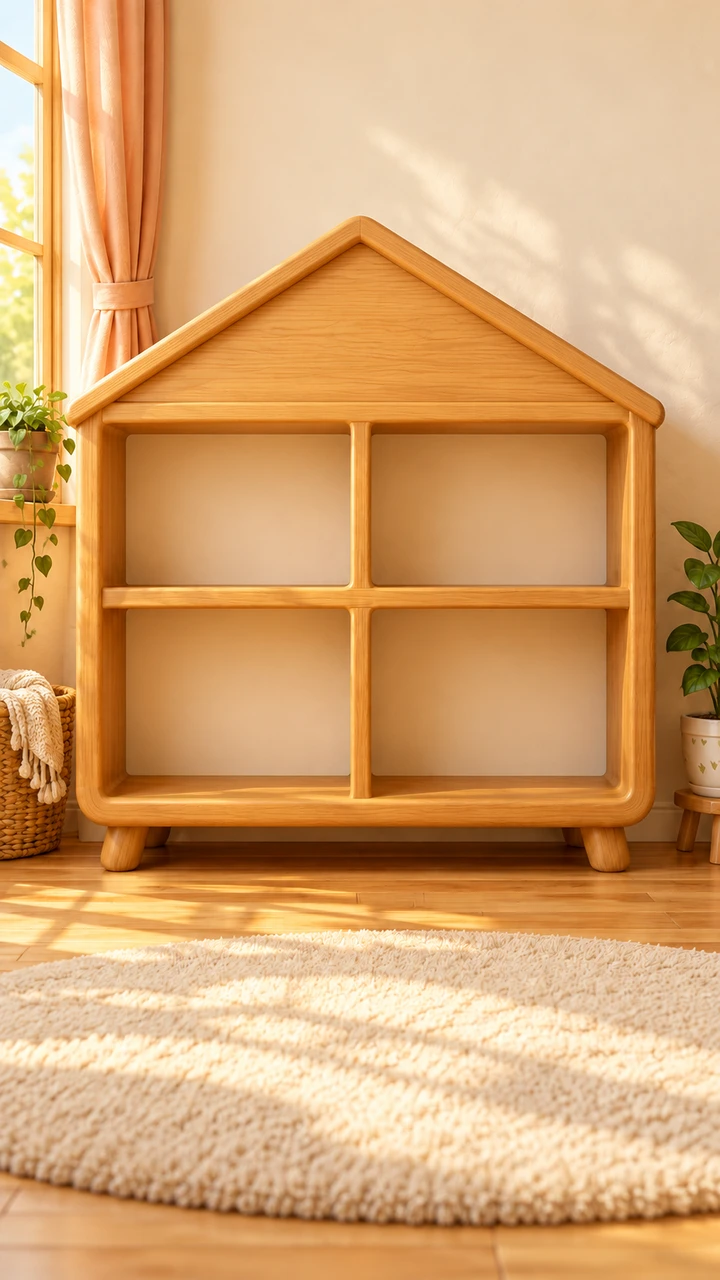
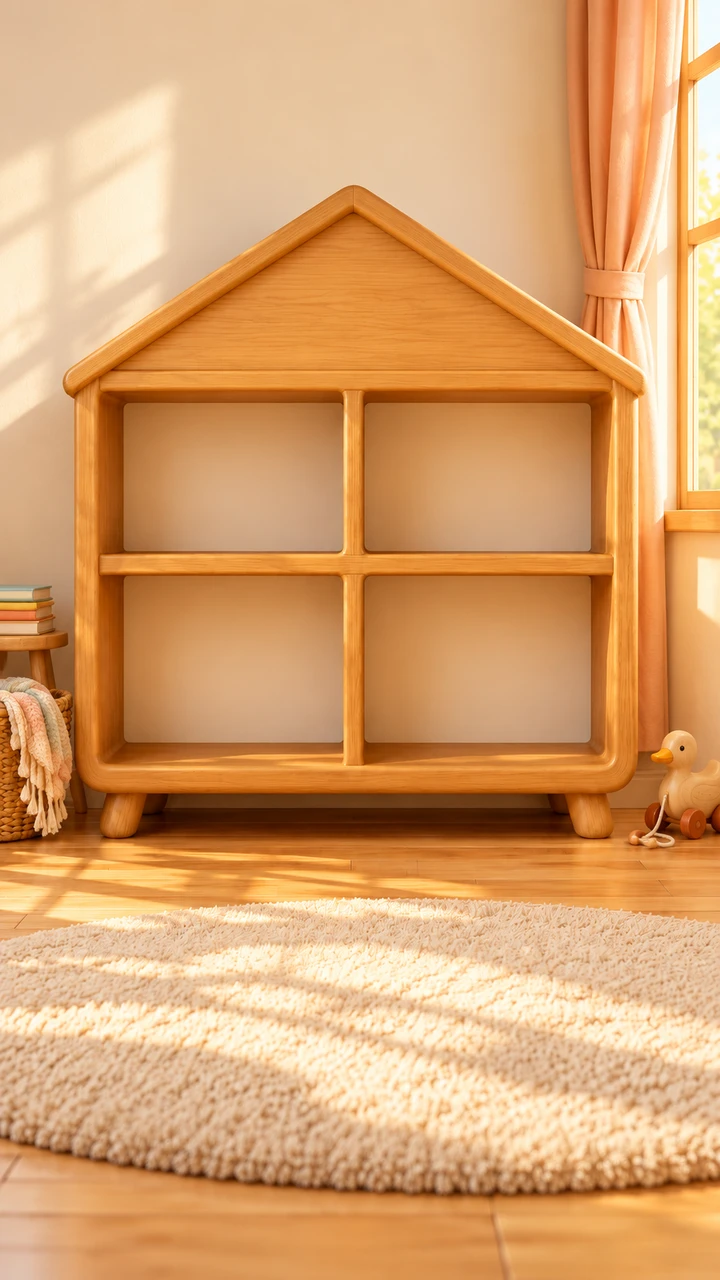
Refine Home room and add parent Memory level selection

diff --git a/scenes/SelectScene.js b/scenes/SelectScene.js
@@ -27,37 +27,39 @@ class SelectScene extends Phaser.Scene {
             this.scene.start(destination, { characterId: this.characterId, mode, fromSelect: destination === 'PlayScene' });
         };
         // Positions follow the photographed shelf, expressed as canvas fractions.
-        this.carePicture = this.add.image(W * 0.5, H * 0.253, `${this.characterId}_neutral`);
+        this.carePicture = this.add.image(W * 0.5, H * 0.235, `${this.characterId}_neutral`);
         this.resizeCarePicture();
-        this.add.text(W * 0.5, H * 0.304, 'Care Game', {
+        this.add.text(W * 0.5, H * 0.285, 'Care Game', {
             fontFamily: 'Quicksand, Arial', fontSize: `${W * 0.052}px`, color: '#59402A',
             stroke: '#F9E5C6', strokeThickness: 3,
         }).setOrigin(0.5);
-        this.add.zone(W * 0.5, H * 0.267, W * 0.43, H * 0.108)
+        this.add.zone(W * 0.5, H * 0.248, W * 0.43, H * 0.108)
             .setInteractive({ useHandCursor: true }).on('pointerdown', () => launch('PlayScene'));
         this.gameTiles = [];
         ALL_GAMES.forEach((game, i) => {
-            const left = W * (i % 2 ? 0.52 : 0.175);
-            const top = H * (i < 2 ? 0.34 : 0.48);
-            const cellW = W * 0.315, cellH = H * (i < 2 ? 0.115 : 0.13);
-            const x = left + cellW / 2, y = top + cellH * 0.40;
-            const size = Math.min(cellW * 0.64, cellH * 0.58);
-            const tile = this.add.image(x, y, game.image).setDepth(1);
-            tile.setScale(size / Math.max(tile.width, tile.height));
+            const left = W * (i % 2 ? 0.51 : 0.17);
+            const top = H * (i < 2 ? 0.313 : 0.459);
+            const cellW = W * 0.31, cellH = H * (i < 2 ? 0.146 : 0.168);
+            const x = left + cellW / 2, y = H * (i < 2 ? 0.373 : 0.522);
+            // Trim transparent margins for Home only, so the actual toy fills its cubby.
+            const content = {
+                memory: [28, 58, 248, 188], catch: [3, 3, 232, 232],
+                tidy: [5, 43, 222, 167], car: [6, 31, 227, 168],
+            }[game.id];
+            const texture = this.textures.get(game.image);
+            if (!texture.has('home_content')) texture.add('home_content', 0, ...content);
+            const tile = this.add.image(x, y, game.image, 'home_content').setDepth(1);
+            tile.setScale(Math.min(cellW * 0.91 / tile.width, H * (i < 2 ? 0.112 : 0.12) / tile.height));
             const base = tile.scaleX;
             this.tweens.add({ targets: tile, scale: base * 1.03, duration: 1500, yoyo: true, repeat: -1 });
-            const label = this.add.text(x, top + cellH * 0.86, game.name, {
-                fontFamily: 'Quicksand, Arial', fontSize: `${W * 0.042}px`, color: '#64513D',
+            const label = this.add.text(x, H * (i < 2 ? 0.445 : 0.604), game.name, {
+                fontFamily: 'Quicksand, Arial', fontSize: `${W * 0.036}px`, color: '#64513D',
             }).setOrigin(0.5).setDepth(1);
             const hit = this.add.zone(x, top + cellH / 2, cellW, cellH).setDepth(2).setInteractive({ useHandCursor: true });
             hit.on('pointerdown', () => launch(game.scene, 'full'));
             this.gameTiles.push({ id: game.id, tile, label, hit });
         });
-        this.add.text(W / 2, H * 0.757, 'Choose a friend', {
-            fontFamily: 'Quicksand, Arial', fontSize: `${W * 0.043}px`, color: '#64513D',
-            stroke: '#FFF4DE', strokeThickness: 4,
-        }).setOrigin(0.5);
-        this.plushieLabel = this.add.text(W / 2, H * 0.96, '', {
+        this.plushieLabel = this.add.text(W / 2, H * 0.976, '', {
             fontFamily: 'Quicksand, Arial', fontSize: `${W * 0.043}px`, color: '#64513D',
             stroke: '#FFF4DE', strokeThickness: 4,
         }).setOrigin(0.5);
@@ -89,13 +91,13 @@ class SelectScene extends Phaser.Scene {
         this.plushieChoices.forEach(({ id, picture, hit }, index) => {
             const selected = id === this.characterId;
             picture.setTexture(`${id}_${selected ? 'neutral' : 'sleeping'}`);
-            const size = W * (selected ? 0.27 : 0.22);
+            const size = W * (selected ? 0.36 : 0.33);
             picture.setScale(size / Math.max(picture.width, picture.height));
-            const x = W * (0.20 + index * 0.30);
-            const feet = H * (selected ? 0.925 : 0.905);
+            const x = W * (0.18 + index * 0.32);
+            const feet = H * 0.935;
             picture.setPosition(x, feet - picture.displayHeight / 2);
             hit.setPosition(x, picture.y);
-            hit.setSize(W * (selected ? 0.29 : 0.20), Math.max(H * 0.10, picture.displayHeight));
+            hit.setSize(W * 0.31, Math.max(H * 0.10, picture.displayHeight));
         });
     }
 }

diff --git a/scenes/soundSettings.js b/scenes/soundSettings.js
@@ -86,7 +86,7 @@ function addParentSettings(scene) {
         scene._settingsOpen = true;
         panel = scene.add.container(0, 0).setDepth(300);
         const shield = scene.add.rectangle(W / 2, H / 2, W, H, 0x000000, 0.6).setInteractive();
-        const panelX = W * 0.04, panelY = H * 0.23, panelW = W * 0.92, panelH = H * 0.56;
+        const panelX = W * 0.04, panelY = H * 0.23, panelW = W * 0.92, panelH = H * 0.70;
         const bg = scene.add.graphics();
         bg.fillStyle(0xFFF8EC).fillRoundedRect(panelX, panelY, panelW, panelH, W * 0.04);
         panel.add([shield, bg]);
@@ -105,8 +105,8 @@ function addParentSettings(scene) {
             panel.add(zone);
             const paint = selected => {
                 background.clear();
-                background.fillStyle(selected ? 0x72865B : 0xF8F3E9).fillRoundedRect(x - width / 2, y - height / 2, width, height, height / 2);
-                background.lineStyle(selected ? 3 : 2, selected ? 0x5C7047 : 0xC8BCA9).strokeRoundedRect(x - width / 2, y - height / 2, width, height, height / 2);
+                background.fillStyle(selected ? 0x9B613C : 0xF8F3E9).fillRoundedRect(x - width / 2, y - height / 2, width, height, height / 2);
+                background.lineStyle(selected ? 3 : 2, selected ? 0x794624 : 0xC8BCA9).strokeRoundedRect(x - width / 2, y - height / 2, width, height, height / 2);
                 label.setColor(selected ? '#FFF8EC' : '#64513D');
             };
             paint(false);
@@ -117,14 +117,14 @@ function addParentSettings(scene) {
         const sliderLeft = W * 0.15, sliderWidth = W * 0.70, sliderY = H * 0.432;
         const track = scene.add.graphics();
         panel.add(track);
-        const thumb = scene.add.circle(0, sliderY, W * 0.028, 0x72865B).setStrokeStyle(4, 0xFFF8EC);
+        const thumb = scene.add.circle(0, sliderY, W * 0.028, 0x9B613C).setStrokeStyle(4, 0xFFF8EC);
         panel.add(thumb);
         const redrawVolume = () => {
             const value = readSoundSettings().volume;
             volume.setText(`Volume: ${Math.round(value * 100)}%`);
             track.clear();
             track.fillStyle(0xD8CEBD).fillRoundedRect(sliderLeft, sliderY - 6, sliderWidth, 12, 6);
-            if (value > 0) track.fillStyle(0x9DAF86).fillRoundedRect(sliderLeft, sliderY - 6, sliderWidth * value, 12, 6);
+            if (value > 0) track.fillStyle(0xD6A16D).fillRoundedRect(sliderLeft, sliderY - 6, sliderWidth * value, 12, 6);
             thumb.setX(sliderLeft + sliderWidth * value);
         };
         const setVolumeFromX = x => {
@@ -156,7 +156,29 @@ function addParentSettings(scene) {
         };
         options('tcm_request_sound', 'requests', 'Dolly request sound', H * 0.52);
         options('tcm_other_sound', 'other', 'Other sounds', H * 0.61);
-        const done = button(W / 2, H * 0.72, W * 0.65, 'Done', () => {
+        text(W / 2, H * 0.695, 'Full Memory level', W * 0.043);
+        const levelDescriptions = {
+            1: 'Guided matching: 4, then 6 cards',
+            2: '4 cards with a preview',
+            3: '4 cards, no preview',
+            4: '6 cards with a preview',
+        };
+        const levelDescription = text(W / 2, H * 0.804, '', W * 0.031);
+        const levelButtons = [];
+        const redrawLevel = () => {
+            const level = readMemoryLevel();
+            levelButtons.forEach((choice, index) => choice.paint(index + 1 === level));
+            levelDescription.setText(levelDescriptions[level]);
+        };
+        Object.keys(MEMORY_LEVELS).forEach((key, index) => {
+            levelButtons.push(button(W * (0.23 + index * 0.18), H * 0.752, W * 0.15, key, () => {
+                localStorage.setItem('tcm_memory_level', key);
+                redrawLevel();
+            }));
+        });
+        redrawLevel();
+        text(W / 2, H * 0.832, 'Mini Memory stays the same', W * 0.027);
+        const done = button(W / 2, H * 0.882, W * 0.65, 'Done', () => {
             panel.destroy(true);
             panel = null;
             scene._settingsOpen = false;
@@ -169,7 +191,7 @@ function addParentSettings(scene) {
         arc = scene.add.graphics().setDepth(222);
         const progress = { value: 0 };
         hold = scene.tweens.add({ targets: progress, value: 1, duration: 2000,
-            onUpdate: () => arc.clear().lineStyle(4, 0x72865B).beginPath().arc(x, y, 41, -Math.PI / 2, -Math.PI / 2 + progress.value * Math.PI * 2).strokePath(),
+            onUpdate: () => arc.clear().lineStyle(4, 0x9B613C).beginPath().arc(x, y, 41, -Math.PI / 2, -Math.PI / 2 + progress.value * Math.PI * 2).strokePath(),
             onComplete: () => { cancel(); open(); },
         });
     });

diff --git a/sw.js b/sw.js
@@ -1,4 +1,4 @@
-const CACHE_NAME = 'tcm-v18';
+const CACHE_NAME = 'tcm-v19';
 
 const ASSETS = [
     './',

diff --git a/tests/home-settings-smoke.py b/tests/home-settings-smoke.py
@@ -58,8 +58,9 @@ try:
         friend=page.evaluate('()=>{const h=__testGame.scene.getScene("SelectScene").plushieChoices.find(c=>c.id === "giraffe").hit;return {x:h.x,y:h.y};}')
         click(friend['x'],friend['y'])
         assert page.evaluate('()=>__testGame.scene.isActive("SelectScene") && localStorage.getItem("tcm_character") === "giraffe"')
-        assert page.evaluate('()=>{const s=__testGame.scene.getScene("SelectScene"),selected=s.plushieChoices.find(c=>c.id === s.characterId).picture;return s.children.list.some(o=>o.text === "Care Game") && s.plushieChoices.filter(c=>c.id !== s.characterId).every(c=>c.picture.displayHeight < selected.displayHeight && c.picture.y+c.picture.displayHeight/2 < selected.y+selected.displayHeight/2);}')
+        assert page.evaluate('()=>{const s=__testGame.scene.getScene("SelectScene"),selected=s.plushieChoices.find(c=>c.id === s.characterId).picture;return s.children.list.some(o=>o.text === "Care Game") && s.plushieChoices.filter(c=>c.id !== s.characterId).every(c=>c.picture.displayHeight < selected.displayHeight && Math.abs(c.picture.y+c.picture.displayHeight/2 - selected.y-selected.displayHeight/2) < 1);}')
         assert page.evaluate('()=>{const s=__testGame.scene.getScene("SelectScene");return s.plushieChoices.every(c=>c.picture.texture.key === c.id+"_"+(c.id === s.characterId ? "neutral" : "sleeping")) && s.carePicture.texture.key === "giraffe_neutral";}')
+        assert page.evaluate('()=>!__testGame.scene.getScene("SelectScene").children.list.some(o=>o.text === "Choose a friend")')
         layout=page.evaluate('()=>__testGame.scene.getScene("SelectScene").gameTiles.map(({tile,label,hit})=>({image:tile.getBounds(),label:label.getBounds(),cell:hit.getBounds()}))')
         for row in layout:
             for part in ['image','label']:
@@ -90,8 +91,17 @@ try:
         assert page.evaluate('()=>localStorage.getItem("tcm_request_sound") === "0" && readSoundSettings().other')
         assert page.evaluate('()=>{const panel=__testGame.scene.getScene("SelectScene").children.list.find(o=>o.depth === 300),row=panel.list.filter(o=>o.type === "Text" && Math.abs(o.y-1280*.52)<1);return row.find(o=>o.text === "Off").style.color === "#FFF8EC" && row.find(o=>o.text === "On").style.color === "#64513D" && row.some(o=>o.text === "Dolly request sound");}')
         assert abs(page.evaluate('()=>__testGame.sound.volume')-.6)<.001
+        for level,x in [(1,.23),(2,.41),(3,.59),(4,.77)]:
+            click(720*x,1280*.752)
+            assert page.evaluate('localStorage.getItem("tcm_memory_level")') == str(level)
+        assert page.evaluate('()=>{const panel=__testGame.scene.getScene("SelectScene").children.list.find(o=>o.depth === 300);return panel.list.some(o=>o.text === "6 cards with a preview");}')
         page.screenshot(path=str(ROOT/f'tests/artifacts/settings-{suffix}.png'))
-        click(360,1280*.72)
+        click(360,1280*.882)
+        if '--home-only' in sys.argv:
+            assert not errors, errors
+            print('PASS:',suffix,'Home layout, larger toys/friends, sleeping/neutral poses and parent settings',flush=True)
+            browser.close()
+            sys.exit(0)
         click(360,1280*.267)
         page.wait_for_function('()=>__testGame.scene.isActive("PlayScene")')
         page.wait_for_function('()=>__testGame.scene.getScene("PlayScene").currentRequest !== null',timeout=20000)
@@ -109,7 +119,7 @@ try:
         hold(670,1280*.055)
         click(720*.665,1280*.52) # Requests on.
         click(720*.825,1280*.61) # Other sounds off.
-        click(360,1280*.72)
+        click(360,1280*.882)
         assert page.evaluate('()=>readSoundSettings().requests && !readSoundSettings().other')
         # Every activity launches by tapping its label, with the selected plushie.
         for i,name in enumerate(['MemoryScene','CatchScene','TidyScene','CarScene']):
@@ -117,10 +127,12 @@ try:
             click(point['x'],point['y'])
             page.wait_for_function('(name)=>__testGame.scene.isActive(name)',arg=name,timeout=20000)
             page.wait_for_function('(name)=>__testGame.scene.getScene(name).children.list.some(o=>o.type === "Zone" && o.depth === 221)',arg=name)
-            assert page.evaluate('(name)=>{const s=__testGame.scene.getScene(name);return s.mode === "full" && s.characterId === "giraffe";}',name)
+            assert page.evaluate('(name)=>{const s=__testGame.scene.getScene(name);return s.mode === "full" && s.characterId === "giraffe" && (name !== "MemoryScene" || s.level === 4);}',name)
             assert page.evaluate('()=>{const s=__testGame.sound;const request=s.add("request_ball"),thanks=s.add("thank_you_1");request.play();thanks.play();const result=!request.mute && thanks.mute;request.destroy();thanks.destroy();return result;}')
             if name != 'MemoryScene':
                 assert page.evaluate('(name)=>otherSoundDestination(__testGame.scene.getScene(name)).gain.value === 0',name)
+            if name == 'CarScene':
+                page.screenshot(path=str(ROOT/f'tests/artifacts/drive-{suffix}.png'))
             print('PASS: launched',name,flush=True)
             click(670,60)
             page.wait_for_function('()=>__testGame.scene.isActive("SelectScene")')
@@ -133,6 +145,7 @@ try:
         click(670,60)
         page.wait_for_function('()=>__testGame.scene.isActive("PlayScene")')
         assert page.evaluate('()=>__testGame.scene.getScene("PlayScene").characterId === "giraffe"')
+        assert page.evaluate('localStorage.getItem("tcm_memory_level")') == '4'
         # Every mini game and its selection menu return to care on a child tap.
         for name in ['CatchScene','TidyScene','CarScene','MiniGameSelectScene']:
             start(name, {'characterId':'giraffe','mode':'mini'})
@@ -146,6 +159,7 @@ try:
         page.wait_for_function('()=>__testGame.scene.isActive("SelectScene")')
         assert page.evaluate('()=>readSoundSettings().volume === .6 && readSoundSettings().requests && !readSoundSettings().other')
         assert page.evaluate('()=>__testGame.scene.getScene("SelectScene").characterId === "giraffe"')
+        assert page.evaluate('localStorage.getItem("tcm_memory_level")') == '4'
         assert not errors,errors
         print('PASS:',suffix,'Home launches, plushie choice, settings hold/cancel/shield, volume, independent categories after play(), synth gating, one-tap full/mini exits and reload persistence',flush=True)
         browser.close()

diff --git a/tests/cache-check.py b/tests/cache-check.py
@@ -53,7 +53,7 @@ with sync_playwright() as p:
     page.goto('http://127.0.0.1:' + str(server.server_port) + '/')
     page.wait_for_function('() => window.__testGame?.scene.isActive("SelectScene")')
     page.evaluate('() => navigator.serviceWorker.ready')
-    page.evaluate('async ([cdn, bundle]) => { const cache = await caches.open("tcm-v18"); await cache.put(cdn, new Response(bundle, {headers:{"Content-Type":"application/javascript"}})); }', [cdn, bundle])
+    page.evaluate('async ([cdn, bundle]) => { const cache = await caches.open("tcm-v19"); await cache.put(cdn, new Response(bundle, {headers:{"Content-Type":"application/javascript"}})); }', [cdn, bundle])
     for asset in expected:
         assert page.evaluate('async asset => !!(await caches.match(new URL(asset,location.href)))', asset), asset
     # All local offline requests must be served by the worker, not HTTP routes.

diff --git a/planning_docs/home-background.md b/planning_docs/home-background.md
@@ -2,8 +2,16 @@
 
 Generated with the built-in image generation tool, using the temporary honey oak and little-house options as references. Runtime asset: `assets/images/bg_home.webp`, resized to 720 x 1280 and encoded as WebP at quality 90. Temporary option images remain under `output/home-background-options/` and are not runtime assets.
 
-Home places Care Game on the roof, the four full games inside the cubbies and the three selectable friends on the rug. The selected friend uses its neutral image; the other two use sleeping images. Positions follow fractions of the background dimensions. The background loads in Boot and is precached in `tcm-v18`.
+Home places Care Game on the roof, the four full games inside the cubbies and the three selectable friends on the rug. The selected friend uses its neutral image; the other two use sleeping images. Positions follow fractions of the background dimensions. The background loads in Boot and is precached in `tcm-v19`.
+
+The revised room puts the window on the right, matching the little-house option, and replaces plants with books, a blanket basket and a wooden duck. Larger friends share a floor baseline on the rug. Home-only texture frames remove transparent icon margins so each toy fills most of its cubby; labels sit on the wooden shelf edges. Parent settings use warm oak brown and cream instead of green. A parent can choose full Memory levels 1?4, saved immediately in the existing tcm_memory_level preference; mini Memory retains its fixed level and never writes this preference.
 
 ## Final prompt
+
+### Revision
+
+Edit this toddler game room background. Correct the room viewpoint to the little-house concept: window and peach curtain on the RIGHT side, softly lit cream wall on LEFT, warm honey-oak house shelf seen nearly straight-on with subtly visible left side, light entering from right. REMOVE EVERY plant, leaf, vine and flowerpot. Replace side plants with restrained children's bedroom details: at left edge a small stack of colourful picture books on a tiny stool and a woven basket holding a folded pastel blanket; right edge under the window a small wooden pull-along duck. No plants at all. Keep the honey oak shelf and roof EXACTLY the same screen coordinates and proportions as input: four large EMPTY 2x2 cubbies, blank triangular roof face with no window or ornament, no toys inside cubbies, cream fluffy rug across foreground bottom. Preserve full portrait 9:16 composition, shelf proportions, cubby openings and floor heights to fit existing interactive game overlays. Warm cosy tactile storybook 3D nursery aesthetic, soft sunlight from right. No characters, text, lettering, UI, buttons or watermarks.
+
+### Original
 
 Edit reference 1 (honey oak nursery) using reference 2 only for its little-house shaped shelf silhouette and straight-on camera angle. Keep reference 1's honey oak colour, cream wall, peach curtain on left, warm sunshine, cream fluffy rug and rounded tactile high-quality storybook 3D aesthetic. Change its shelf into a house-shaped honey oak shelf. Portrait 9:16 full room background for toddler game. Four EMPTY large cubbies in a 2x2 grid; remove ALL books, blocks and ornaments from inside cubbies so interactive toy images can sit there later. Shelf spans x 12%-88%; cubby interiors x 16%-48% and 52%-84%, upper row y 34%-49%, lower row y 52%-67%. House roof above cubbies at y 18%-32%, leave its broad triangular wooden face completely blank for Care Game artwork to overlay (no round window). Cream rug open across bottom y 76%-98% for three plushies to overlay. Keep uppermost 15% wall quiet for header. No text, UI, buttons, characters, watermarks. Beautiful real wood grain and soft rounded edges, almost frontal composition matching second reference. Do not add decorations inside shelf or roof.
